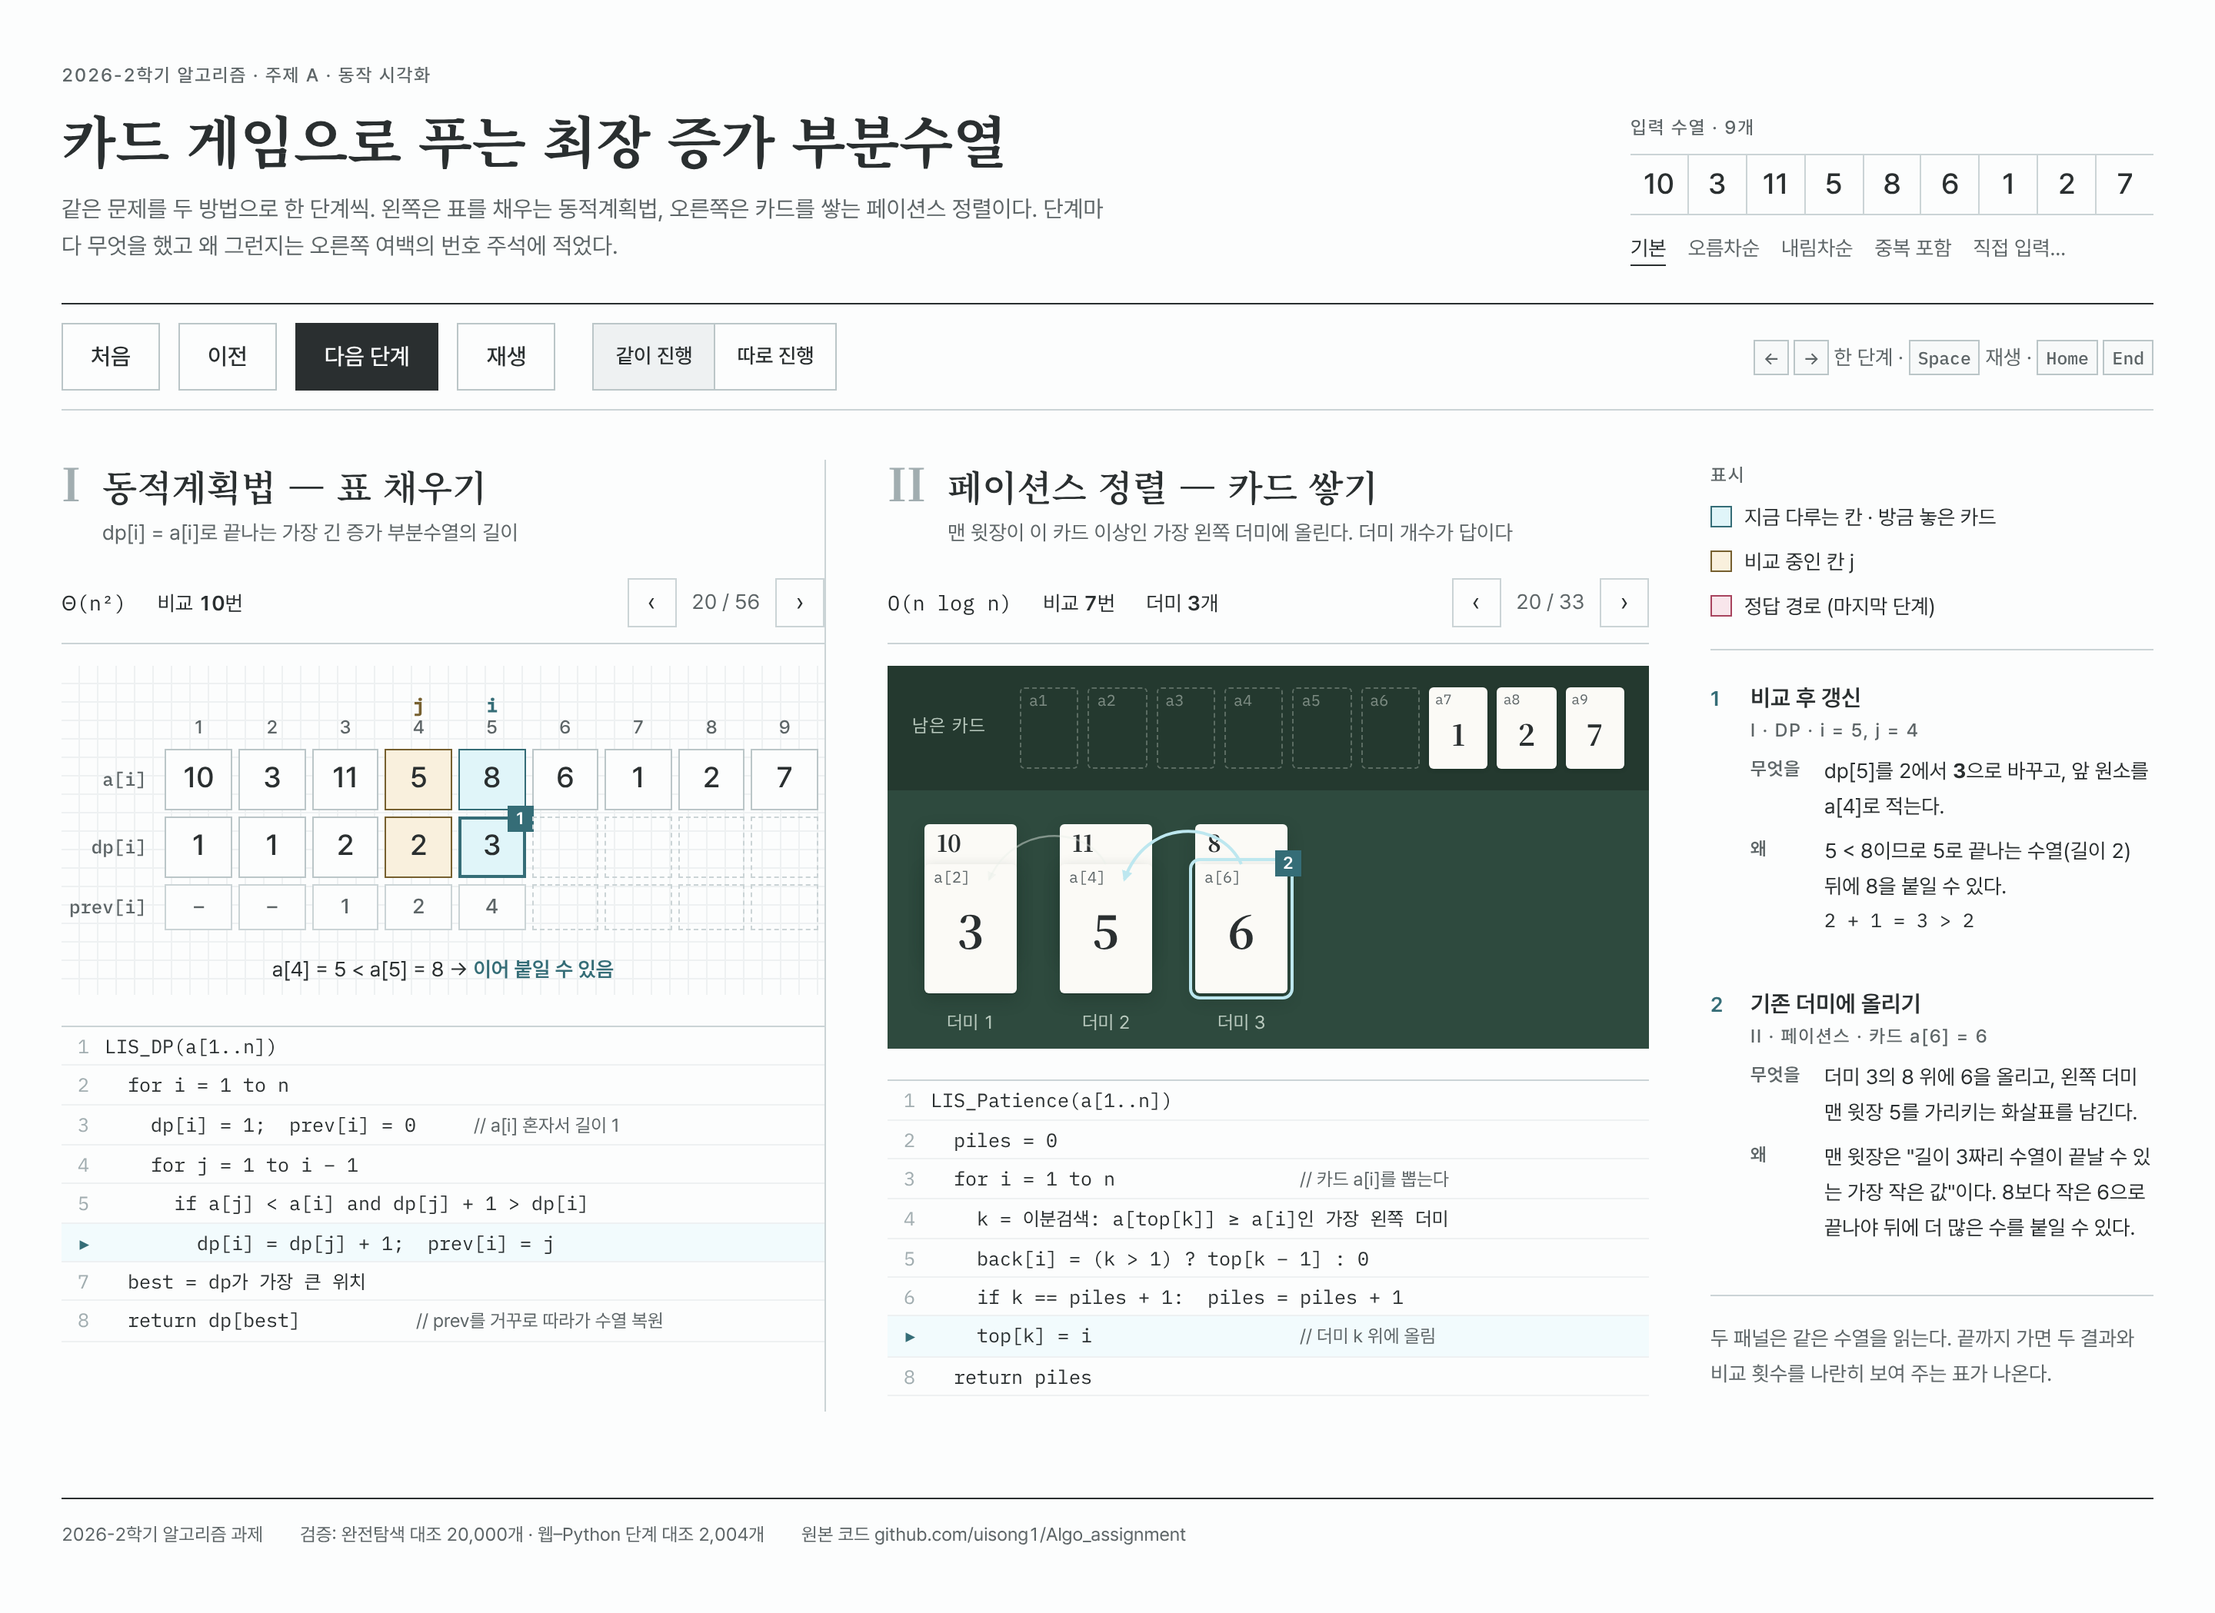
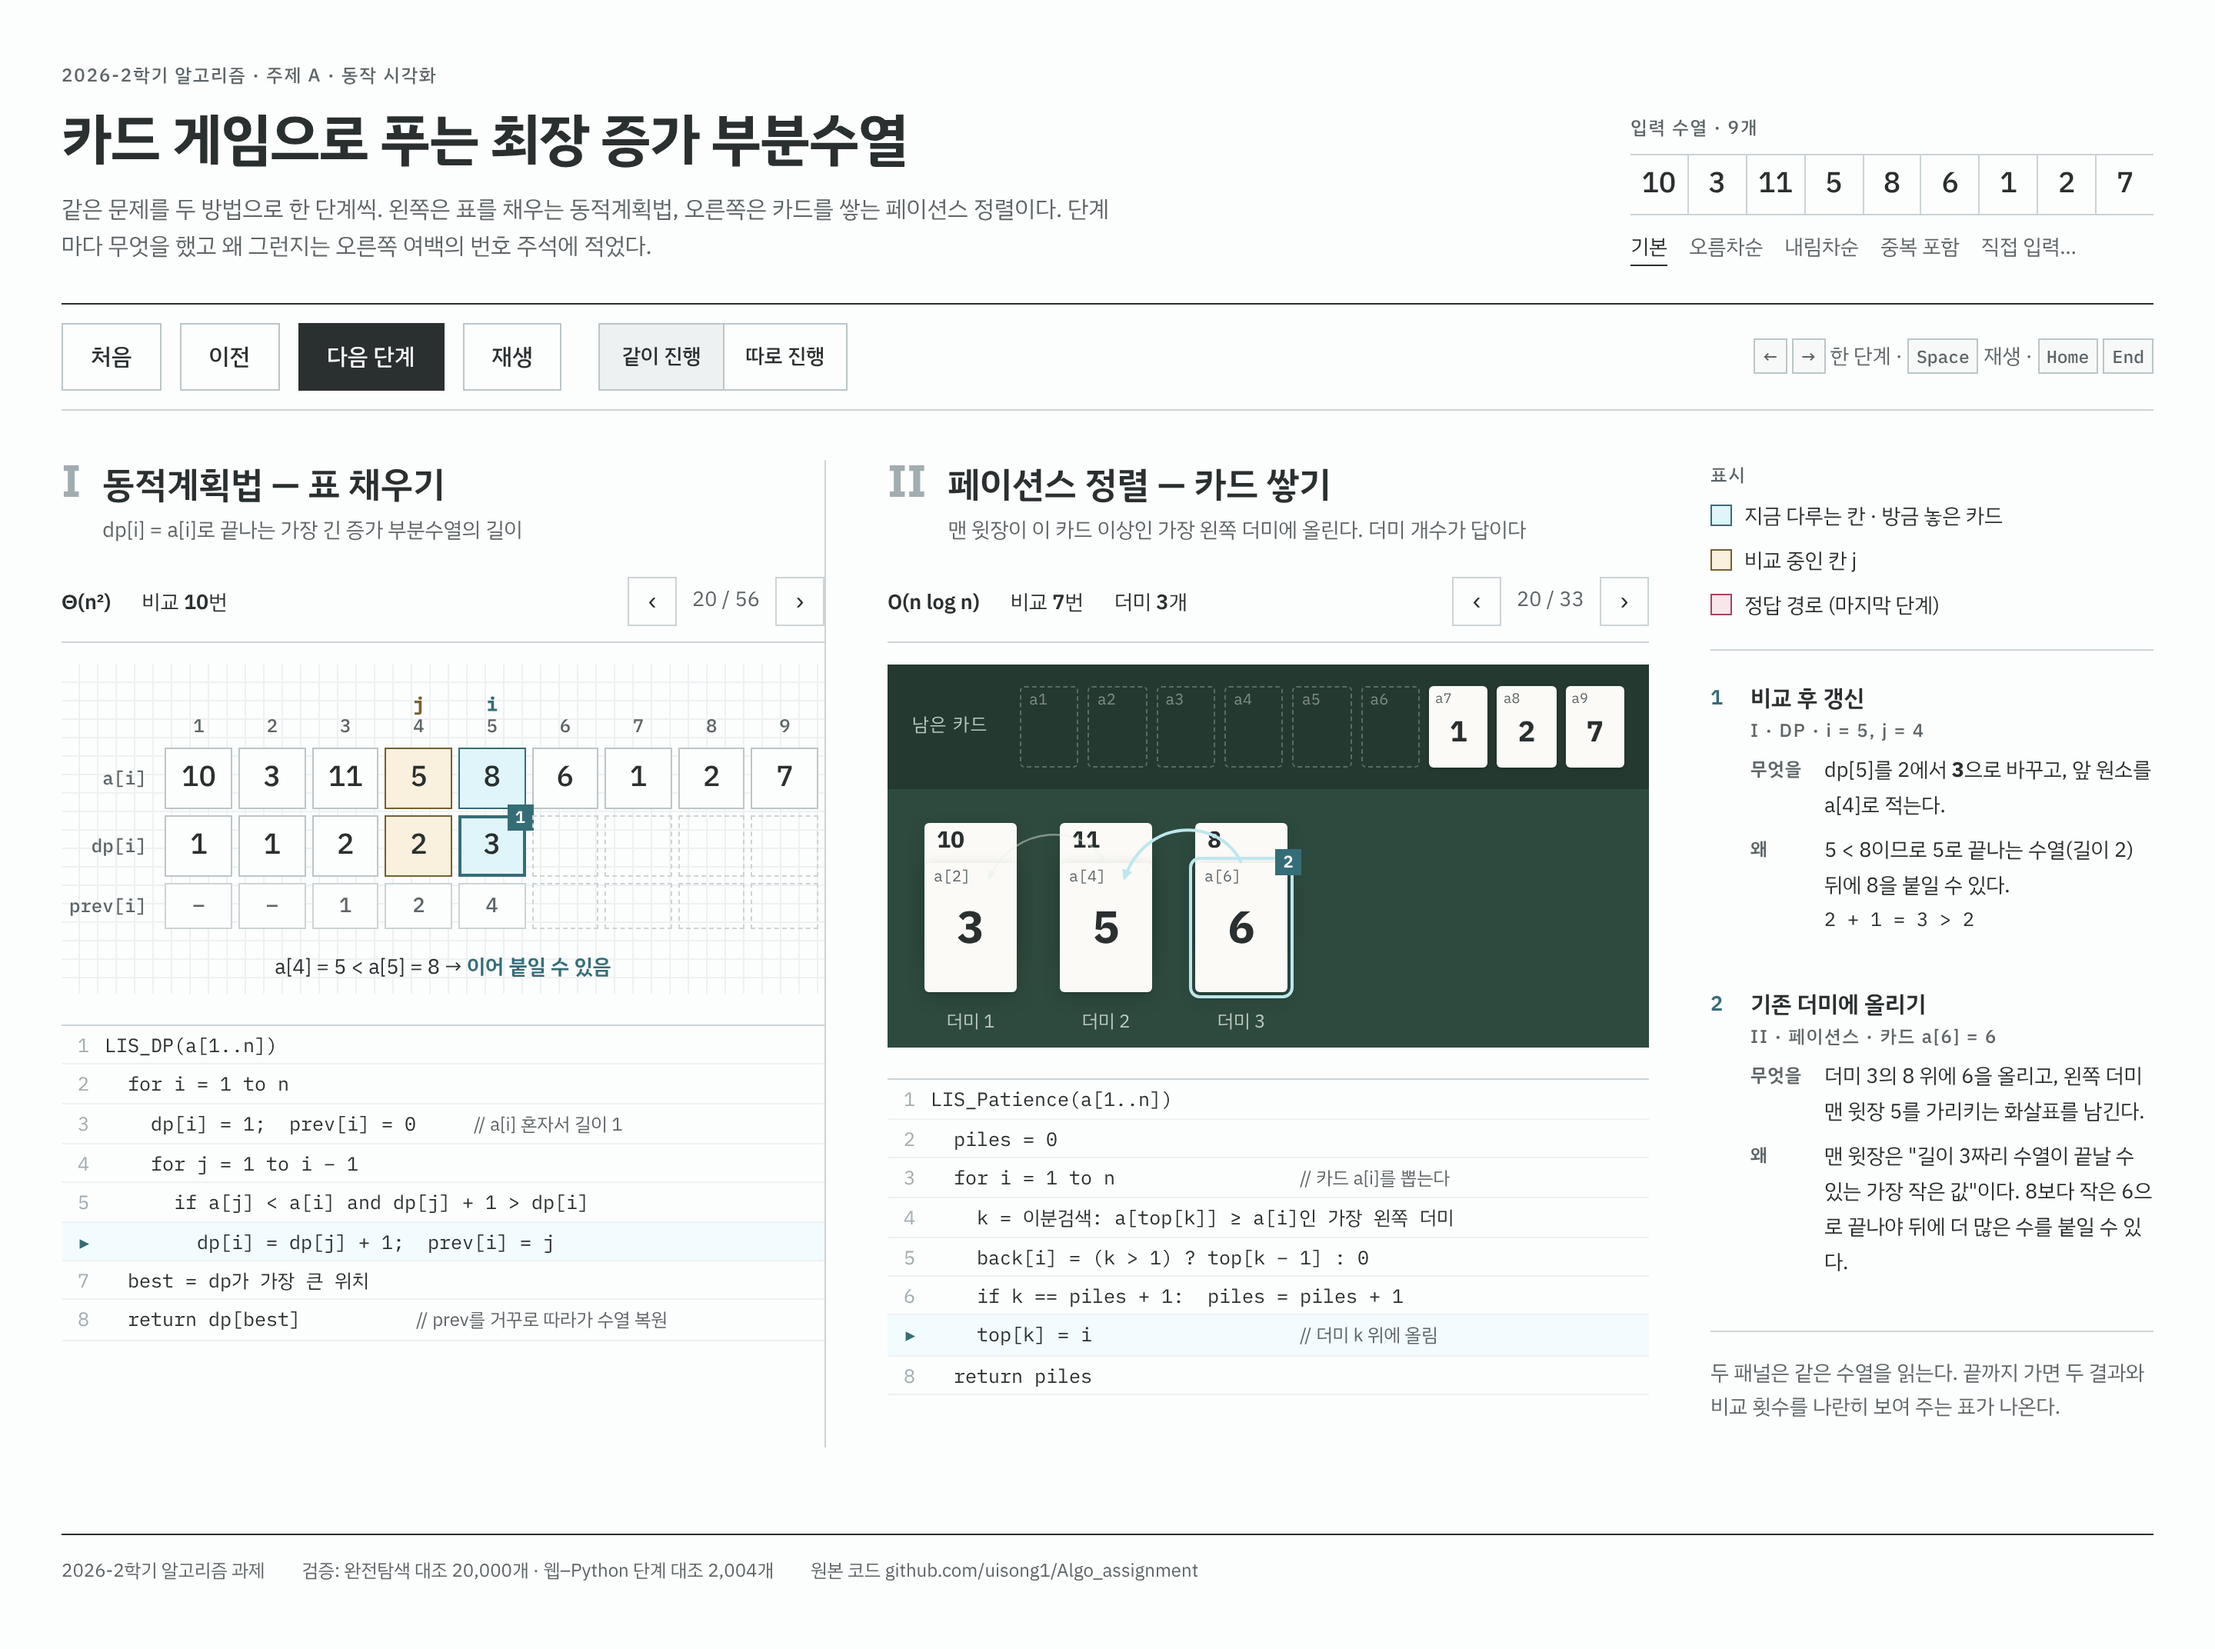
Design: switch type to IBM Plex Sans KR
Claude-Session: https://claude.ai/code/session_01MQjUNT5HNX4EySV8kVSi8H

diff --git a/mocks/marginal-ledger.html b/mocks/marginal-ledger.html
@@ -3,11 +3,10 @@
 <head>
 <meta charset="utf-8">
 <meta name="viewport" content="width=device-width, initial-scale=1">
-<title>시안 · 각주 원고 (Marginal Ledger)</title>
+<title>시안 · 각주 원고 (Marginal Ledger) · IBM Plex</title>
 <!-- 시안: 정적 화면. 상태 = DP 20/56(i=5, j=4 갱신), 페이션스 20/33(카드 6을 더미 3에) -->
 <link rel="preconnect" href="https://fonts.googleapis.com">
-<link rel="stylesheet" href="https://fonts.googleapis.com/css2?family=Noto+Serif+KR:wght@600;700&family=IBM+Plex+Mono:wght@400;500&display=swap">
-<link rel="stylesheet" href="https://cdn.jsdelivr.net/gh/orioncactus/pretendard@v1.3.9/dist/web/variable/pretendardvariable-dynamic-subset.min.css">
+<link rel="stylesheet" href="https://fonts.googleapis.com/css2?family=IBM+Plex+Sans+KR:wght@400;500;600;700&family=IBM+Plex+Mono:wght@400;500&display=swap">
 <style>
 :root {
   /* palette.mjs --seed 211.1 --chroma balanced --harmony mono (DESIGN.md) */
@@ -26,9 +25,9 @@
   --mark-path: #a8445e; --mark-path-bg: #f8e6eb;
   --felt: #2e4a3e; --felt-deep: #24392f; --card: #fbfaf6;
   /* 글꼴 */
-  --serif: "Noto Serif KR", "Nanum Myeongjo", serif;
-  --sans: "Pretendard Variable", Pretendard, "Apple SD Gothic Neo", sans-serif;
-  --mono: "IBM Plex Mono", ui-monospace, Menlo, "Pretendard Variable", monospace;
+  --display: "IBM Plex Sans KR", "Apple SD Gothic Neo", sans-serif;
+  --sans: "IBM Plex Sans KR", "Apple SD Gothic Neo", sans-serif;
+  --mono: "IBM Plex Mono", ui-monospace, Menlo, "IBM Plex Sans KR", monospace;
   /* 1.25 스케일 */
   --t-xs: 12px; --t-s: 13.5px; --t-m: 15px; --t-l: 18.75px; --t-xl: 23.4px; --t-2xl: 29.3px; --t-3xl: 36.6px;
   --ease: cubic-bezier(.2,.7,.2,1);
@@ -42,7 +41,7 @@ body { margin: 0; color: var(--text); font: 400 var(--t-m)/1.65 var(--sans); fon
 /* ── 머리말 ─────────────────────────── */
 .mast { display: grid; grid-template-columns: 1fr 340px; gap: 48px; align-items: end;
         padding: 40px 0 24px; border-bottom: 1px solid var(--text); }
-.mast h1 { font: 700 var(--t-3xl)/1.25 var(--serif); margin: 8px 0 10px; letter-spacing: -.01em; }
+.mast h1 { font: 700 var(--t-3xl)/1.25 var(--display); margin: 8px 0 10px; letter-spacing: -.02em; }
 .mast .lede { margin: 0; color: var(--text-secondary); max-width: 46em; }
 .input .seq { display: flex; gap: 0; margin: 6px 0 10px; border-top: 1px solid var(--border-subtle); border-bottom: 1px solid var(--border-subtle); }
 .input .seq span { flex: 1; text-align: center; font: 500 var(--t-l)/2 var(--sans); }
@@ -68,12 +67,12 @@ kbd { font: 500 11.5px/1 var(--mono); border: 1px solid var(--border); padding: 
 .pane { min-width: 0; }
 .pane + .pane { padding-left: 40px; border-left: 1px solid var(--border-subtle); margin-left: -40px; }
 .pane header { display: grid; grid-template-columns: auto 1fr; column-gap: 14px; align-items: baseline; }
-.pane .numeral { font: 700 var(--t-2xl)/1 var(--serif); color: var(--border-strong); grid-row: span 2; }
-.pane h2 { font: 600 var(--t-xl)/1.25 var(--serif); margin: 0; }
+.pane .numeral { font: 700 var(--t-2xl)/1 var(--display); color: var(--border-strong); grid-row: span 2; }
+.pane h2 { font: 600 var(--t-xl)/1.25 var(--display); margin: 0; }
 .pane .def { margin: 4px 0 0; font-size: var(--t-s); color: var(--text-secondary); }
 .meta { display: flex; flex-wrap: wrap; gap: 8px 20px; align-items: baseline; margin: 18px 0 14px; padding-bottom: 10px; border-bottom: 1px solid var(--border-subtle); font-size: var(--t-s); }
 .meta b { font-weight: 600; } .meta > span { white-space: nowrap; }
-.meta .big { font-family: var(--mono); font-size: var(--t-s); color: var(--text); }
+.meta .big { font-family: var(--sans); font-weight: 600; font-size: var(--t-s); color: var(--text); }
 .meta .step { margin-left: auto; display: flex; gap: 10px; align-items: center; color: var(--text-secondary); }
 .meta .step button { font: 400 16px/1 var(--sans); border: 1px solid var(--border-subtle); background: none; width: 32px; height: 32px; cursor: pointer; color: var(--text); }
 
@@ -105,13 +104,13 @@ kbd { font: 500 11.5px/1 var(--mono); border: 1px solid var(--border); padding: 
 .slot { aspect-ratio: 5/7; border: 1px dashed rgba(232,239,233,.28); border-radius: 3px; position: relative; }
 .slot .ix { position: absolute; top: 3px; left: 5px; font: 400 10px/1 var(--mono); color: rgba(232,239,233,.45); }
 .mini { aspect-ratio: 5/7; background: var(--card); color: var(--text); border-radius: 3px; display: grid; place-items: center; position: relative;
-        font: 700 var(--t-l)/1 var(--serif); padding-top: 8px; box-shadow: 0 1px 2px rgba(20,40,32,.35); }
+        font: 700 var(--t-l)/1 var(--display); padding-top: 8px; box-shadow: 0 1px 2px rgba(20,40,32,.35); }
 .mini .ix { position: absolute; top: 3px; left: 4px; font: 400 9px/1 var(--mono); color: var(--text-secondary); }
 .piles { position: relative; height: 168px; padding: 22px 24px 0; }
 .pile { position: absolute; top: 22px; width: 60px; }
 .card { position: absolute; left: 0; width: 60px; height: 84px; background: var(--card); color: var(--text); border-radius: 3px;
         box-shadow: 0 1px 0 rgba(20,40,32,.25), 0 4px 10px rgba(20,40,32,.28); }
-.card .v { position: absolute; inset: 0; display: grid; place-items: center; font: 700 var(--t-2xl)/1 var(--serif); }
+.card .v { position: absolute; inset: 0; display: grid; place-items: center; font: 700 var(--t-2xl)/1 var(--display); }
 .card .ix { position: absolute; top: 4px; left: 6px; font: 400 10px/1 var(--mono); color: var(--text-secondary); }
 .card.buried .v { place-items: start; padding: 4px 0 0 8px; font-size: var(--t-m); }
 .card.buried .ix { display: none; }

diff --git a/DESIGN.md b/DESIGN.md
@@ -2,12 +2,12 @@
 **Date:** 2026-11-08 · **Status:** confirmed
 **Archetype:** Sage (정밀, 엄밀) + Ruler (단정, 고급) · **Register:** calm structure · expressive at: 카드를 더미에 놓는 순간, 마지막 답 복원
 **Grounding:** Edward Tufte 책의 여백 주석(sidenote) + 스위스 철도(SBB) 시간표의 숫자 조판
-**DNA:** Swiss / International + type voice from Editorial Minimalism · **Dominant axis:** composition (여백 주석)
+**DNA:** Swiss / International (글꼴은 사용자 지정: IBM Plex Sans KR) · **Dominant axis:** composition (여백 주석)
 **Composition:** Marginalia (dealer: swiss-international × marginalia, variance 5, seed lis-visualizer|2026-11-08|0, hue 211.1 cyan)
-**Pins:** 사용자 선택: 후보 ①에 후보 ③의 글꼴(명조 제목)을 합성. 카드 테이블의 펠트 초록은 콘텐츠 색으로 유지.
+**Pins:** 사용자 선택: 후보 ① 구성. 글꼴은 명조 대신 IBM Plex Sans KR(후보 비교 E안)로 교체. 카드 테이블의 펠트 초록은 콘텐츠 색으로 유지.
 
 ## Direction
-채점하는 교수님과 같은 반 학생이 두 알고리즘을 한 단계씩 나란히 보며 "무엇을/왜"를 바로 읽게 한다. 학술서의 여백 주석처럼, 본문(두 패널)은 그림만 보여 주고 설명은 오른쪽 여백의 번호 주석이 맡는다. 단정한 격자와 숫자 조판이 정밀함을, 명조 제목이 고급스러움을 담당한다.
+채점하는 교수님과 같은 반 학생이 두 알고리즘을 한 단계씩 나란히 보며 "무엇을/왜"를 바로 읽게 한다. 학술서의 여백 주석처럼, 본문(두 패널)은 그림만 보여 주고 설명은 오른쪽 여백의 번호 주석이 맡는다. 단정한 격자와 숫자 조판, 한 가족의 IBM Plex(본문·코드)가 정밀하고 정돈된 인상을 만든다.
 
 ## Signature move
 지금 단계에서 바뀐 칸(DP의 dp[i], 페이션스의 방금 놓은 카드)에 위첨자 주석 번호(¹, ²)가 붙고, 같은 번호의 주석이 오른쪽 여백에 "무엇을 / 왜"로 적힌다. 번호와 주석은 같은 잉크색(accent-11)이고, 이 색은 주석 연결에만 쓴다.
@@ -18,9 +18,9 @@
 - 그 외 모든 곳은 차분한 구조를 유지한다.
 
 ## Type
-- Display: Noto Serif KR 600/700 (Google Fonts) — 제목, 패널 제목, 카드 숫자
-- Body: Pretendard Variable (jsDelivr CDN) — 본문, 라벨, 표 숫자(font-variant-numeric: tabular-nums)
-- Code: IBM Plex Mono, 한글 주석은 Pretendard로 대체
+- Display: IBM Plex Sans KR 600/700 (Google Fonts) — 제목, 패널 제목, 카드 숫자. 제목 자간 -0.02em
+- Body: IBM Plex Sans KR 400/500 — 본문, 라벨, 표 숫자(font-variant-numeric: tabular-nums)
+- Code: IBM Plex Mono, 한글 주석은 IBM Plex Sans KR로 대체. 복잡도 표기(Θ, O)는 Mono의 Θ가 0처럼 보이므로 Sans로 쓴다
 - Scale: 1.25 from 15px — 12 · 15 · 18.75 · 23.4 · 29.3 · 36.6
 - Leading: body 1.65 / display 1.25 · Weights: 400, 500, 600(굵게는 제목만)
 - 작은 대문자 라벨: 12px, letter-spacing 0.08em
